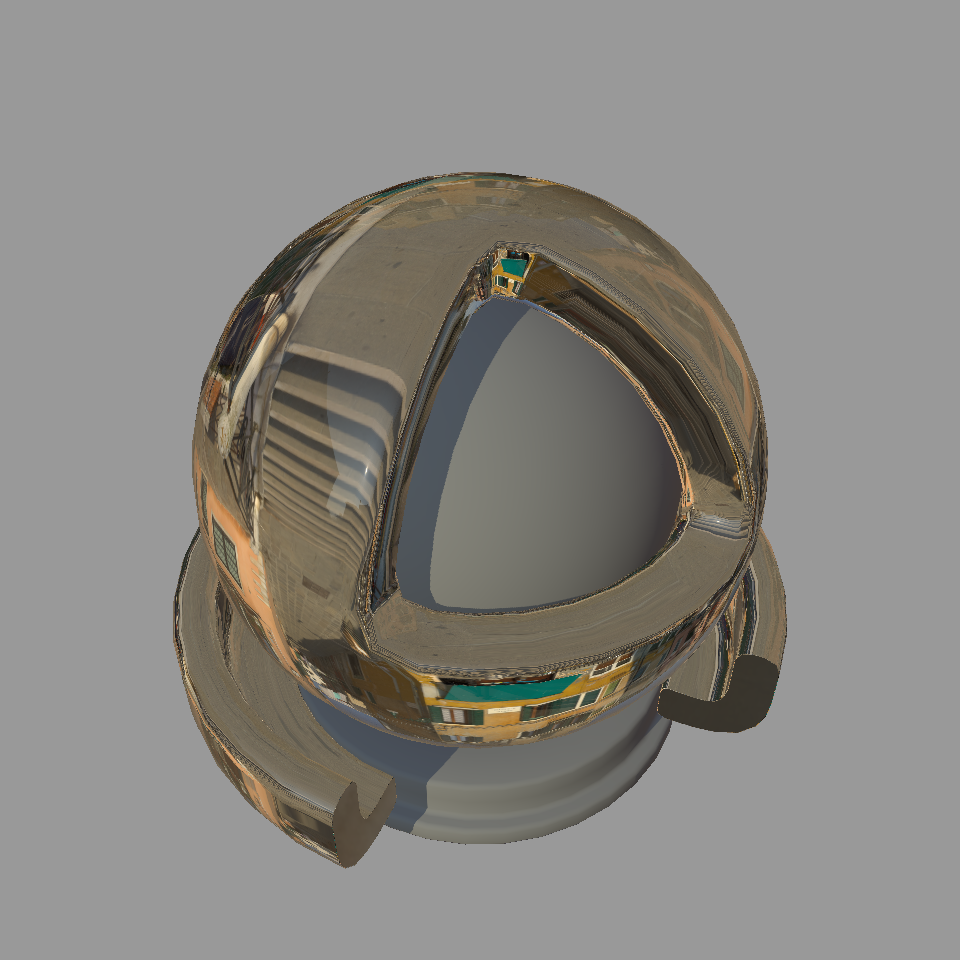
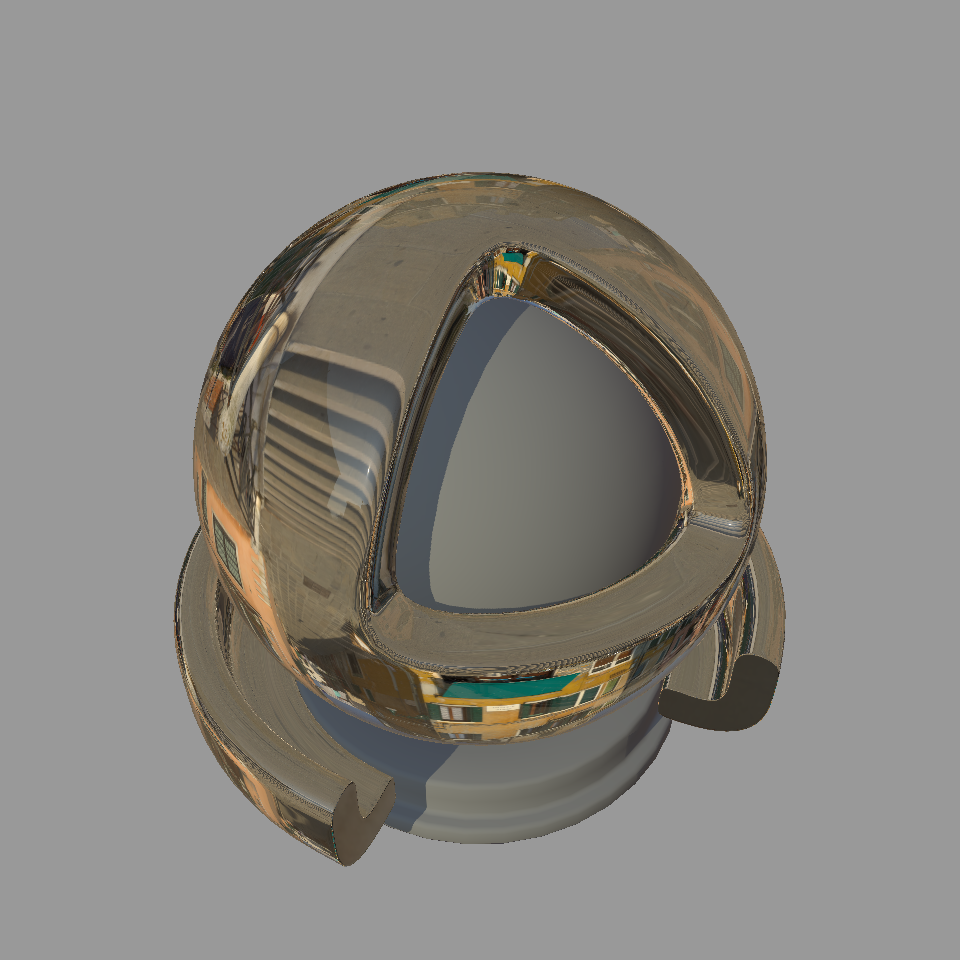
Update README.

diff --git a/README.html b/README.html
@@ -346,7 +346,7 @@ code {
 	font-size: inherit;
 }
 
-/* Page Break : use <div class="page"/> to insert page break
+/* Page Break : use <div class="page"/> or <div class="page"></div> to insert page break
 -------------------------------------------------------- */
 .page {
 	page-break-after: always;
@@ -374,7 +374,7 @@ code {
 <h3 id="steps">Steps</h3>
 <ol>
 <li>Use <code>usdball_download.sh</code> to clone only the shader ball scene into a new repo folder called <code>StandardShaderBall</code>.</li>
-<li>Use <code>togltf.py</code> from the root of that repo to create the GLB file called: <code>standard_shader_ball_scene.glb</code></li>
+<li>Use <code>togltf.py</code> from the root of that repo to create the GLB file called: <code>standard_shader_ball_scene.glb</code>. Use the <code>--smooth</code> option if additional smoothing is desired for the surface material geometry.</li>
 </ol>
 <p>The non shader ball geometry, cameras, and lights are all stripped away. As well no materials are saved.</p>
 <p>A Python virtual environment can also be used.</p>
@@ -399,35 +399,47 @@ code {
 </tbody>
 </table>
 <h3 id="materialx-look-settings">MaterialX Look Settings</h3>
-<p>The geometry in the glTF file can be assigned so that the main material to &quot;preview&quot; can be assigned to the outer shell<br>
+<p>The geometry in the glTF file can be assigned so that the main material to &quot;preview&quot; can be assigned to the outer shell
 and ring around the base. The rest can be assigned some &quot;default&quot; material. You can also assign to the &quot;Arnold&quot;shader ball using the same material assignments.</p>
-<p>Below is an example look with &quot;base,&quot;core&quot;,&quot;sss_bars&quot; and &quot;material_surface&quot; the names of geometry in the USD shader ball,<br>
+<p>Below is an example look with &quot;base,&quot;core&quot;,&quot;sss_bars&quot; and &quot;material_surface&quot; the names of geometry in the USD shader ball,
 and &quot;Calibration_Mesh&quot; and &quot;Preview_Mesh&quot; the names of geometry in the Arnold shader ball:</p>
-<pre class="hljs"><code><div><span class="hljs-tag">&lt;<span class="hljs-name">look</span> <span class="hljs-attr">name</span>=<span class="hljs-string">"look1"</span>&gt;</span>
-<span class="hljs-tag">&lt;<span class="hljs-name">materialassign</span> <span class="hljs-attr">name</span>=<span class="hljs-string">"default"</span> <span class="hljs-attr">geom</span>=<span class="hljs-string">"base,core,sss_bars,Calibration_Mesh"</span> <span class="hljs-attr">material</span>=<span class="hljs-string">"MY_DEFAULT_MATERIAL"</span> /&gt;</span>
- <span class="hljs-tag">&lt;<span class="hljs-name">materialassign</span> <span class="hljs-attr">name</span>=<span class="hljs-string">"preview"</span> <span class="hljs-attr">geom</span>=<span class="hljs-string">"material_surface,Preview_Mesh"</span> <span class="hljs-attr">material</span>=<span class="hljs-string">"MY_PREVIEW_MATERIAL"</span> /&gt;</span>
+<pre class="hljs"><code><div><span class="hljs-tag">&lt;<span class="hljs-name">look</span> <span class="hljs-attr">name</span>=<span class="hljs-string">&quot;look1&quot;</span>&gt;</span>
+<span class="hljs-tag">&lt;<span class="hljs-name">materialassign</span> <span class="hljs-attr">name</span>=<span class="hljs-string">&quot;default&quot;</span> <span class="hljs-attr">geom</span>=<span class="hljs-string">&quot;base,core,sss_bars,Calibration_Mesh&quot;</span> <span class="hljs-attr">material</span>=<span class="hljs-string">&quot;MY_DEFAULT_MATERIAL&quot;</span> /&gt;</span>
+ <span class="hljs-tag">&lt;<span class="hljs-name">materialassign</span> <span class="hljs-attr">name</span>=<span class="hljs-string">&quot;preview&quot;</span> <span class="hljs-attr">geom</span>=<span class="hljs-string">&quot;material_surface,Preview_Mesh&quot;</span> <span class="hljs-attr">material</span>=<span class="hljs-string">&quot;MY_PREVIEW_MATERIAL&quot;</span> /&gt;</span>
 <span class="hljs-tag">&lt;/<span class="hljs-name">look</span>&gt;</span>
 </div></code></pre>
 <p>with an example default OpenPBR material:</p>
-<pre class="hljs"><code><div><span class="hljs-meta">&lt;?xml version="1.0"?&gt;</span>
-<span class="hljs-tag">&lt;<span class="hljs-name">materialx</span> <span class="hljs-attr">version</span>=<span class="hljs-string">"1.39"</span> <span class="hljs-attr">colorspace</span>=<span class="hljs-string">"lin_rec709"</span>&gt;</span>
-  <span class="hljs-tag">&lt;<span class="hljs-name">surfacematerial</span> <span class="hljs-attr">name</span>=<span class="hljs-string">"MY_DEFAULT_MATERIAL"</span> <span class="hljs-attr">type</span>=<span class="hljs-string">"material"</span>&gt;</span>
-    <span class="hljs-tag">&lt;<span class="hljs-name">input</span> <span class="hljs-attr">name</span>=<span class="hljs-string">"surfaceshader"</span> <span class="hljs-attr">type</span>=<span class="hljs-string">"surfaceshader"</span> <span class="hljs-attr">nodename</span>=<span class="hljs-string">"open_pbr_surface_surfaceshader"</span> /&gt;</span>
+<pre class="hljs"><code><div><span class="hljs-meta">&lt;?xml version=<span class="hljs-string">&quot;1.0&quot;</span>?&gt;</span>
+<span class="hljs-tag">&lt;<span class="hljs-name">materialx</span> <span class="hljs-attr">version</span>=<span class="hljs-string">&quot;1.39&quot;</span> <span class="hljs-attr">colorspace</span>=<span class="hljs-string">&quot;lin_rec709&quot;</span>&gt;</span>
+  <span class="hljs-tag">&lt;<span class="hljs-name">surfacematerial</span> <span class="hljs-attr">name</span>=<span class="hljs-string">&quot;MY_DEFAULT_MATERIAL&quot;</span> <span class="hljs-attr">type</span>=<span class="hljs-string">&quot;material&quot;</span>&gt;</span>
+    <span class="hljs-tag">&lt;<span class="hljs-name">input</span> <span class="hljs-attr">name</span>=<span class="hljs-string">&quot;surfaceshader&quot;</span> <span class="hljs-attr">type</span>=<span class="hljs-string">&quot;surfaceshader&quot;</span> <span class="hljs-attr">nodename</span>=<span class="hljs-string">&quot;open_pbr_surface_surfaceshader&quot;</span> /&gt;</span>
   <span class="hljs-tag">&lt;/<span class="hljs-name">surfacematerial</span>&gt;</span>
-  <span class="hljs-tag">&lt;<span class="hljs-name">open_pbr_surface</span> <span class="hljs-attr">name</span>=<span class="hljs-string">"open_pbr_surface_surfaceshader"</span> <span class="hljs-attr">type</span>=<span class="hljs-string">"surfaceshader"</span>&gt;</span>
-    <span class="hljs-tag">&lt;<span class="hljs-name">input</span> <span class="hljs-attr">name</span>=<span class="hljs-string">"base_weight"</span> <span class="hljs-attr">type</span>=<span class="hljs-string">"float"</span> <span class="hljs-attr">value</span>=<span class="hljs-string">"1.0"</span> /&gt;</span>
-    <span class="hljs-tag">&lt;<span class="hljs-name">input</span> <span class="hljs-attr">name</span>=<span class="hljs-string">"base_color"</span> <span class="hljs-attr">type</span>=<span class="hljs-string">"color3"</span> <span class="hljs-attr">value</span>=<span class="hljs-string">"0.3, 0.3, 0.3"</span> /&gt;</span>
-    <span class="hljs-tag">&lt;<span class="hljs-name">input</span> <span class="hljs-attr">name</span>=<span class="hljs-string">"base_diffuse_roughness"</span> <span class="hljs-attr">type</span>=<span class="hljs-string">"float"</span> <span class="hljs-attr">value</span>=<span class="hljs-string">"0.2"</span> /&gt;</span>
-    <span class="hljs-tag">&lt;<span class="hljs-name">input</span> <span class="hljs-attr">name</span>=<span class="hljs-string">"base_metalness"</span> <span class="hljs-attr">type</span>=<span class="hljs-string">"float"</span> <span class="hljs-attr">value</span>=<span class="hljs-string">"0.0"</span> /&gt;</span>
-    <span class="hljs-tag">&lt;<span class="hljs-name">input</span> <span class="hljs-attr">name</span>=<span class="hljs-string">"specular_weight"</span> <span class="hljs-attr">type</span>=<span class="hljs-string">"float"</span> <span class="hljs-attr">value</span>=<span class="hljs-string">"0.1"</span> /&gt;</span>
-    <span class="hljs-tag">&lt;<span class="hljs-name">input</span> <span class="hljs-attr">name</span>=<span class="hljs-string">"specular_color"</span> <span class="hljs-attr">type</span>=<span class="hljs-string">"color3"</span> <span class="hljs-attr">value</span>=<span class="hljs-string">"1, 1, 1"</span> /&gt;</span>
-    <span class="hljs-tag">&lt;<span class="hljs-name">input</span> <span class="hljs-attr">name</span>=<span class="hljs-string">"specular_roughness"</span> <span class="hljs-attr">type</span>=<span class="hljs-string">"float"</span> <span class="hljs-attr">value</span>=<span class="hljs-string">"0.5"</span> /&gt;</span>
-    <span class="hljs-tag">&lt;<span class="hljs-name">input</span> <span class="hljs-attr">name</span>=<span class="hljs-string">"specular_ior"</span> <span class="hljs-attr">type</span>=<span class="hljs-string">"float"</span> <span class="hljs-attr">value</span>=<span class="hljs-string">"1.5"</span> /&gt;</span>
+  <span class="hljs-tag">&lt;<span class="hljs-name">open_pbr_surface</span> <span class="hljs-attr">name</span>=<span class="hljs-string">&quot;open_pbr_surface_surfaceshader&quot;</span> <span class="hljs-attr">type</span>=<span class="hljs-string">&quot;surfaceshader&quot;</span>&gt;</span>
+    <span class="hljs-tag">&lt;<span class="hljs-name">input</span> <span class="hljs-attr">name</span>=<span class="hljs-string">&quot;base_weight&quot;</span> <span class="hljs-attr">type</span>=<span class="hljs-string">&quot;float&quot;</span> <span class="hljs-attr">value</span>=<span class="hljs-string">&quot;1.0&quot;</span> /&gt;</span>
+    <span class="hljs-tag">&lt;<span class="hljs-name">input</span> <span class="hljs-attr">name</span>=<span class="hljs-string">&quot;base_color&quot;</span> <span class="hljs-attr">type</span>=<span class="hljs-string">&quot;color3&quot;</span> <span class="hljs-attr">value</span>=<span class="hljs-string">&quot;0.3, 0.3, 0.3&quot;</span> /&gt;</span>
+    <span class="hljs-tag">&lt;<span class="hljs-name">input</span> <span class="hljs-attr">name</span>=<span class="hljs-string">&quot;base_diffuse_roughness&quot;</span> <span class="hljs-attr">type</span>=<span class="hljs-string">&quot;float&quot;</span> <span class="hljs-attr">value</span>=<span class="hljs-string">&quot;0.2&quot;</span> /&gt;</span>
+    <span class="hljs-tag">&lt;<span class="hljs-name">input</span> <span class="hljs-attr">name</span>=<span class="hljs-string">&quot;base_metalness&quot;</span> <span class="hljs-attr">type</span>=<span class="hljs-string">&quot;float&quot;</span> <span class="hljs-attr">value</span>=<span class="hljs-string">&quot;0.0&quot;</span> /&gt;</span>
+    <span class="hljs-tag">&lt;<span class="hljs-name">input</span> <span class="hljs-attr">name</span>=<span class="hljs-string">&quot;specular_weight&quot;</span> <span class="hljs-attr">type</span>=<span class="hljs-string">&quot;float&quot;</span> <span class="hljs-attr">value</span>=<span class="hljs-string">&quot;0.1&quot;</span> /&gt;</span>
+    <span class="hljs-tag">&lt;<span class="hljs-name">input</span> <span class="hljs-attr">name</span>=<span class="hljs-string">&quot;specular_color&quot;</span> <span class="hljs-attr">type</span>=<span class="hljs-string">&quot;color3&quot;</span> <span class="hljs-attr">value</span>=<span class="hljs-string">&quot;1, 1, 1&quot;</span> /&gt;</span>
+    <span class="hljs-tag">&lt;<span class="hljs-name">input</span> <span class="hljs-attr">name</span>=<span class="hljs-string">&quot;specular_roughness&quot;</span> <span class="hljs-attr">type</span>=<span class="hljs-string">&quot;float&quot;</span> <span class="hljs-attr">value</span>=<span class="hljs-string">&quot;0.5&quot;</span> /&gt;</span>
+    <span class="hljs-tag">&lt;<span class="hljs-name">input</span> <span class="hljs-attr">name</span>=<span class="hljs-string">&quot;specular_ior&quot;</span> <span class="hljs-attr">type</span>=<span class="hljs-string">&quot;float&quot;</span> <span class="hljs-attr">value</span>=<span class="hljs-string">&quot;1.5&quot;</span> /&gt;</span>
   <span class="hljs-tag">&lt;/<span class="hljs-name">open_pbr_surface</span>&gt;</span>
 <span class="hljs-tag">&lt;/<span class="hljs-name">materialx</span>&gt;</span>
 </div></code></pre>
-<p>Note that the script does not extract out the material from the original USD file though that could be added in the future.</p>
-<p>Below is an example using a material from PolyHaven<br>
+<h3 id="usd-materialx-example-looks">USD MaterialX Example Looks</h3>
+<p>Note that the script does not extract out the material from the original USD file though that could be added in the future. Current <code>USDPreviewSurface</code> materials are represented in USD only.</p>
+<p>The remaining examples can be extracted and have looks added to it using the <code>addLook.py</code> script. There is an additional option to render using a user provided render string argument such that</p>
+<ul>
+<li><code>%g</code> is replaced by the geometry file name</li>
+<li><code>%m</code> is replaced by the Materialx file name</li>
+<li><code>%o</code> is replaced by the output image name</li>
+</ul>
+<p>Below is an example using <code>MaterialXView</code> to add looks and render all the example MaterialX materials found in the USD asset.</p>
+<pre class="hljs"><code><div>addlook.py ./StandardShaderBall/full_assets/StandardShaderBall/example_materials -r &quot;MaterialXView --material %m --mesh %g --screenWidth 480 --screenHeight 480 --captureFilename %o  --cameraPosition 7.5,17.0,17.0 --cameraZoom 6 --shadowMap true --lightRotation 20 --screenColor 0.6,0.6,0.6&quot; --g ./standard_shader_ball_scene_smooth.glb -o example_materials
+</div></code></pre>
+<p>Results are shown in section: Rendered Example Materials</p>
+<p>This can be used to add looks and render with any input with a material.</p>
+<p>Below is an example using a material from <code>PolyHaven</code>
 using the same document but applied to different shader balls.</p>
 <table>
 <thead>
@@ -440,6 +452,49 @@ using the same document but applied to different shader balls.</p>
 <tr>
 <td style="text-align:center"><img width=100% src="look_example.png"></td>
 <td style="text-align:center"><img width=100% src="look_example_2.png"></td>
+</tr>
+</tbody>
+</table>
+<h3 id="rendered-example-materials">Rendered Example Materials</h3>
+<table>
+<thead>
+<tr>
+<th style="text-align:center">Look</th>
+<th style="text-align:center">Result</th>
+</tr>
+</thead>
+<tbody>
+<tr>
+<td style="text-align:center">Standard Surface Plastic</td>
+<td style="text-align:center"><img alt="plastic" src="https://github.com/user-attachments/assets/e46ff9a9-2637-442f-8d8f-2b789ccdf16e" /></td>
+</tr>
+<tr>
+<td style="text-align:center">OpenPBR Plastic</td>
+<td style="text-align:center"><img alt="plastic_openpbr" src="https://github.com/user-attachments/assets/fb6e1b67-5911-41de-b6e4-d9afe1e9d182" /></td>
+</tr>
+<tr>
+<td style="text-align:center">Standard Surface Bubblegum</td>
+<td style="text-align:center"><img alt="bubblegum" src="https://github.com/user-attachments/assets/96cc5f22-3a1e-486e-8812-eadbc9f35ba9" /></td>
+</tr>
+<tr>
+<td style="text-align:center">OpenPBR Bubblegum</td>
+<td style="text-align:center"><img  alt="bubblegum_openpbr" src="https://github.com/user-attachments/assets/923f97ca-edfd-40aa-9ebd-83d406e4de46" /></td>
+</tr>
+<tr>
+<td style="text-align:center">Standard Surface Glass</td>
+<td style="text-align:center"><img  alt="glass" src="https://github.com/user-attachments/assets/0ce59c1a-78fc-413a-8237-d698a81364c3" /></td>
+</tr>
+<tr>
+<td style="text-align:center">OpenPBR Glass</td>
+<td style="text-align:center"><img alt="glass_openpbr" src="https://github.com/user-attachments/assets/4e98f417-f9bd-49a4-b640-499481a63c21" /></td>
+</tr>
+<tr>
+<td style="text-align:center">Standard Surface Gold</td>
+<td style="text-align:center"><img  alt="gold" src="https://github.com/user-attachments/assets/e0fd9442-8474-4307-9b8d-48564fc6f8a3" /></td>
+</tr>
+<tr>
+<td style="text-align:center">OpenPBR Gold</td>
+<td style="text-align:center"><img alt="gold_openpbr" src="https://github.com/user-attachments/assets/e83f403b-3f31-4c52-b9e9-8822e82454e5" /></td>
 </tr>
 </tbody>
 </table>

diff --git a/README.md b/README.md
@@ -8,7 +8,7 @@ This repo contains two scripts to allow:
 ### Steps
 
 1. Use `usdball_download.sh` to clone only the shader ball scene into a new repo folder called `StandardShaderBall`.
-2. Use `togltf.py` from the root of that repo to create the GLB file called: `standard_shader_ball_scene.glb`
+2. Use `togltf.py` from the root of that repo to create the GLB file called: `standard_shader_ball_scene.glb`. Use the `--smooth` option if additional smoothing is desired for the surface material geometry.
 
 The non shader ball geometry, cameras, and lights are all stripped away. As well no materials are saved.
 
@@ -59,13 +59,40 @@ with an example default OpenPBR material:
   </open_pbr_surface>
 </materialx>
 ```
+### USD MaterialX Example Looks
 
-Note that the script does not extract out the material from the original USD file though that could be added in the future.
+Note that the script does not extract out the material from the original USD file though that could be added in the future. Current `USDPreviewSurface` materials are represented in USD only.
 
-Below is an example using a material from PolyHaven
+The remaining examples can be extracted and have looks added to it using the `addLook.py` script. There is an additional option to render using a user provided render string argument such that
+- `%g` is replaced by the geometry file name
+- `%m` is replaced by the Materialx file name
+- `%o` is replaced by the output image name         
+
+Below is an example using `MaterialXView` to add looks and render all the example MaterialX materials found in the USD asset.
+
+```shell
+addlook.py ./StandardShaderBall/full_assets/StandardShaderBall/example_materials -r "MaterialXView --material %m --mesh %g --screenWidth 480 --screenHeight 480 --captureFilename %o  --cameraPosition 7.5,17.0,17.0 --cameraZoom 6 --shadowMap true --lightRotation 20 --screenColor 0.6,0.6,0.6" --g ./standard_shader_ball_scene_smooth.glb -o example_materials
+```
+Results are shown in section: Rendered Example Materials
+
+This can be used to add looks and render with any input with a material.
+
+Below is an example using a material from `PolyHaven`
 using the same document but applied to different shader balls.
 
 | USD Shader Ball | Arnold Shader Ball |
 | :--: | :--: |
 | <img width=100% src="look_example.png"> | <img width=100% src="look_example_2.png"> |
 
+### Rendered Example Materials
+
+| Look | Result |
+| :--: | :--: |
+| Standard Surface Plastic | <img alt="plastic" src="https://github.com/user-attachments/assets/e46ff9a9-2637-442f-8d8f-2b789ccdf16e" /> |
+| OpenPBR Plastic | <img alt="plastic_openpbr" src="https://github.com/user-attachments/assets/fb6e1b67-5911-41de-b6e4-d9afe1e9d182" /> | 
+| Standard Surface Bubblegum | <img alt="bubblegum" src="https://github.com/user-attachments/assets/96cc5f22-3a1e-486e-8812-eadbc9f35ba9" /> |
+| OpenPBR Bubblegum |  <img  alt="bubblegum_openpbr" src="https://github.com/user-attachments/assets/923f97ca-edfd-40aa-9ebd-83d406e4de46" /> |
+| Standard Surface Glass | <img  alt="glass" src="https://github.com/user-attachments/assets/0ce59c1a-78fc-413a-8237-d698a81364c3" /> |
+|  OpenPBR Glass |  <img alt="glass_openpbr" src="https://github.com/user-attachments/assets/4e98f417-f9bd-49a4-b640-499481a63c21" /> |
+| Standard Surface Gold | <img  alt="gold" src="https://github.com/user-attachments/assets/e0fd9442-8474-4307-9b8d-48564fc6f8a3" /> |
+| OpenPBR Gold |  <img alt="gold_openpbr" src="https://github.com/user-attachments/assets/e83f403b-3f31-4c52-b9e9-8822e82454e5" /> |
